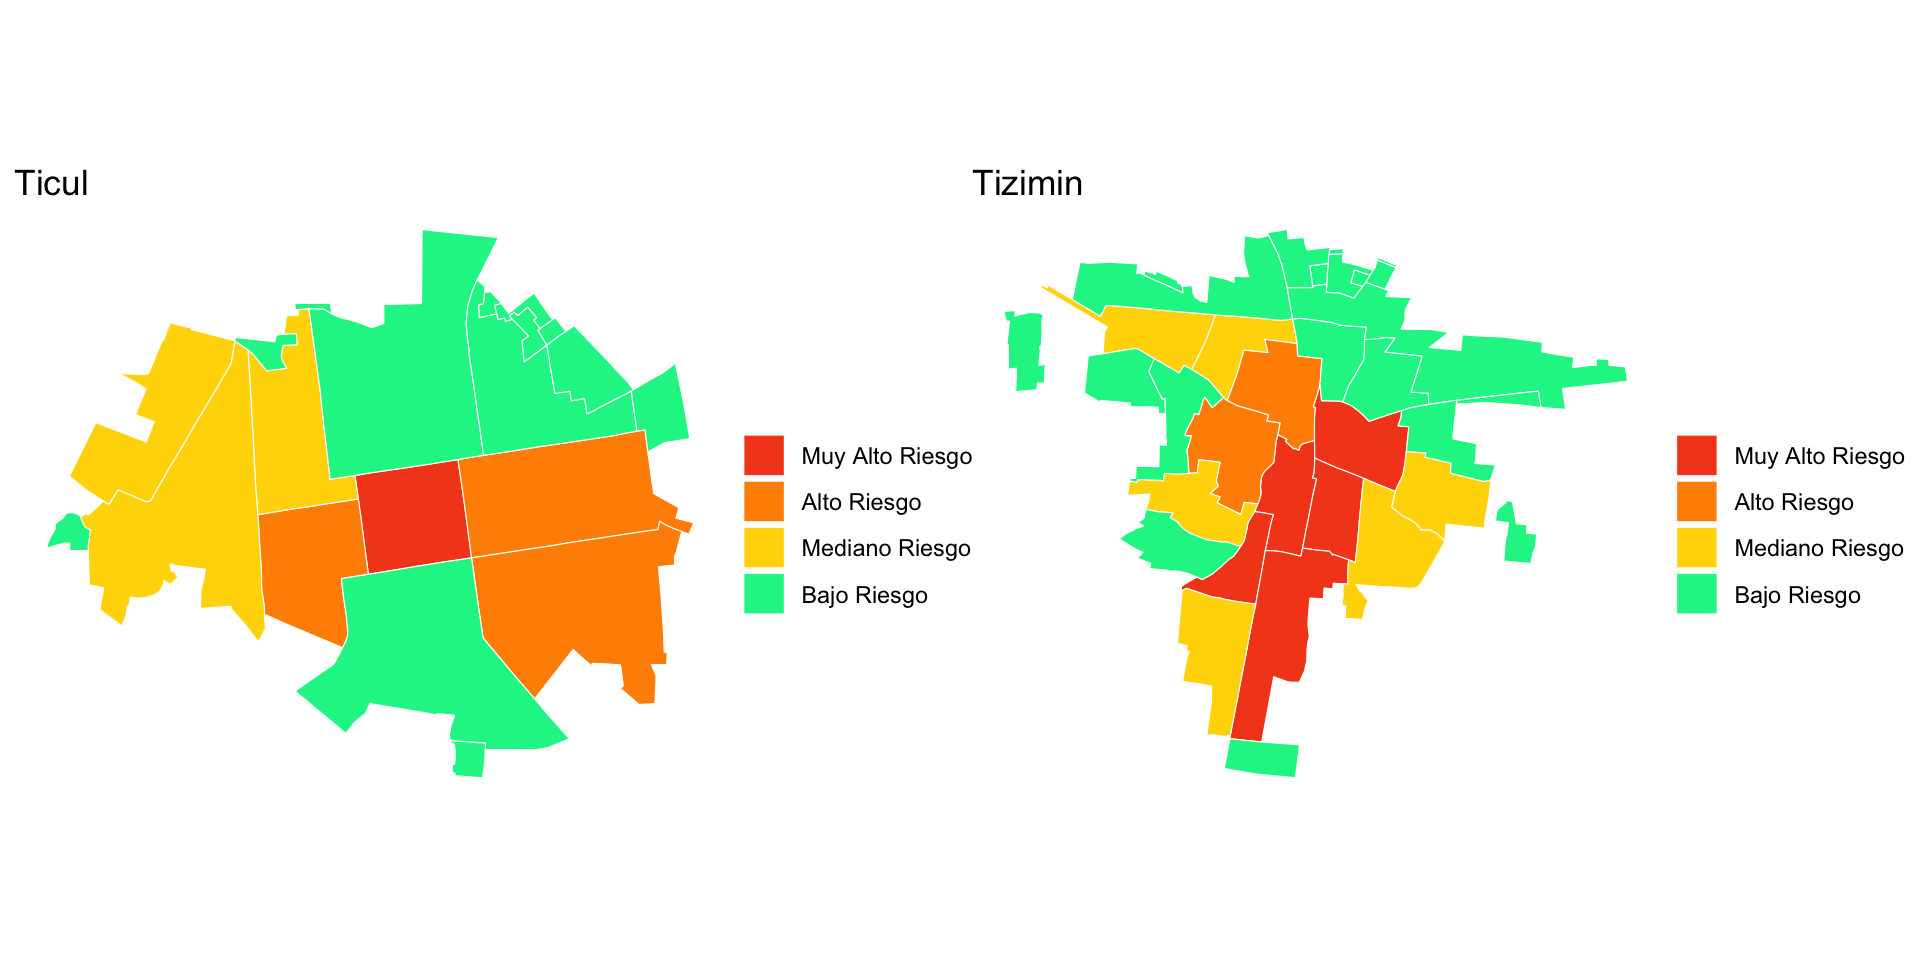
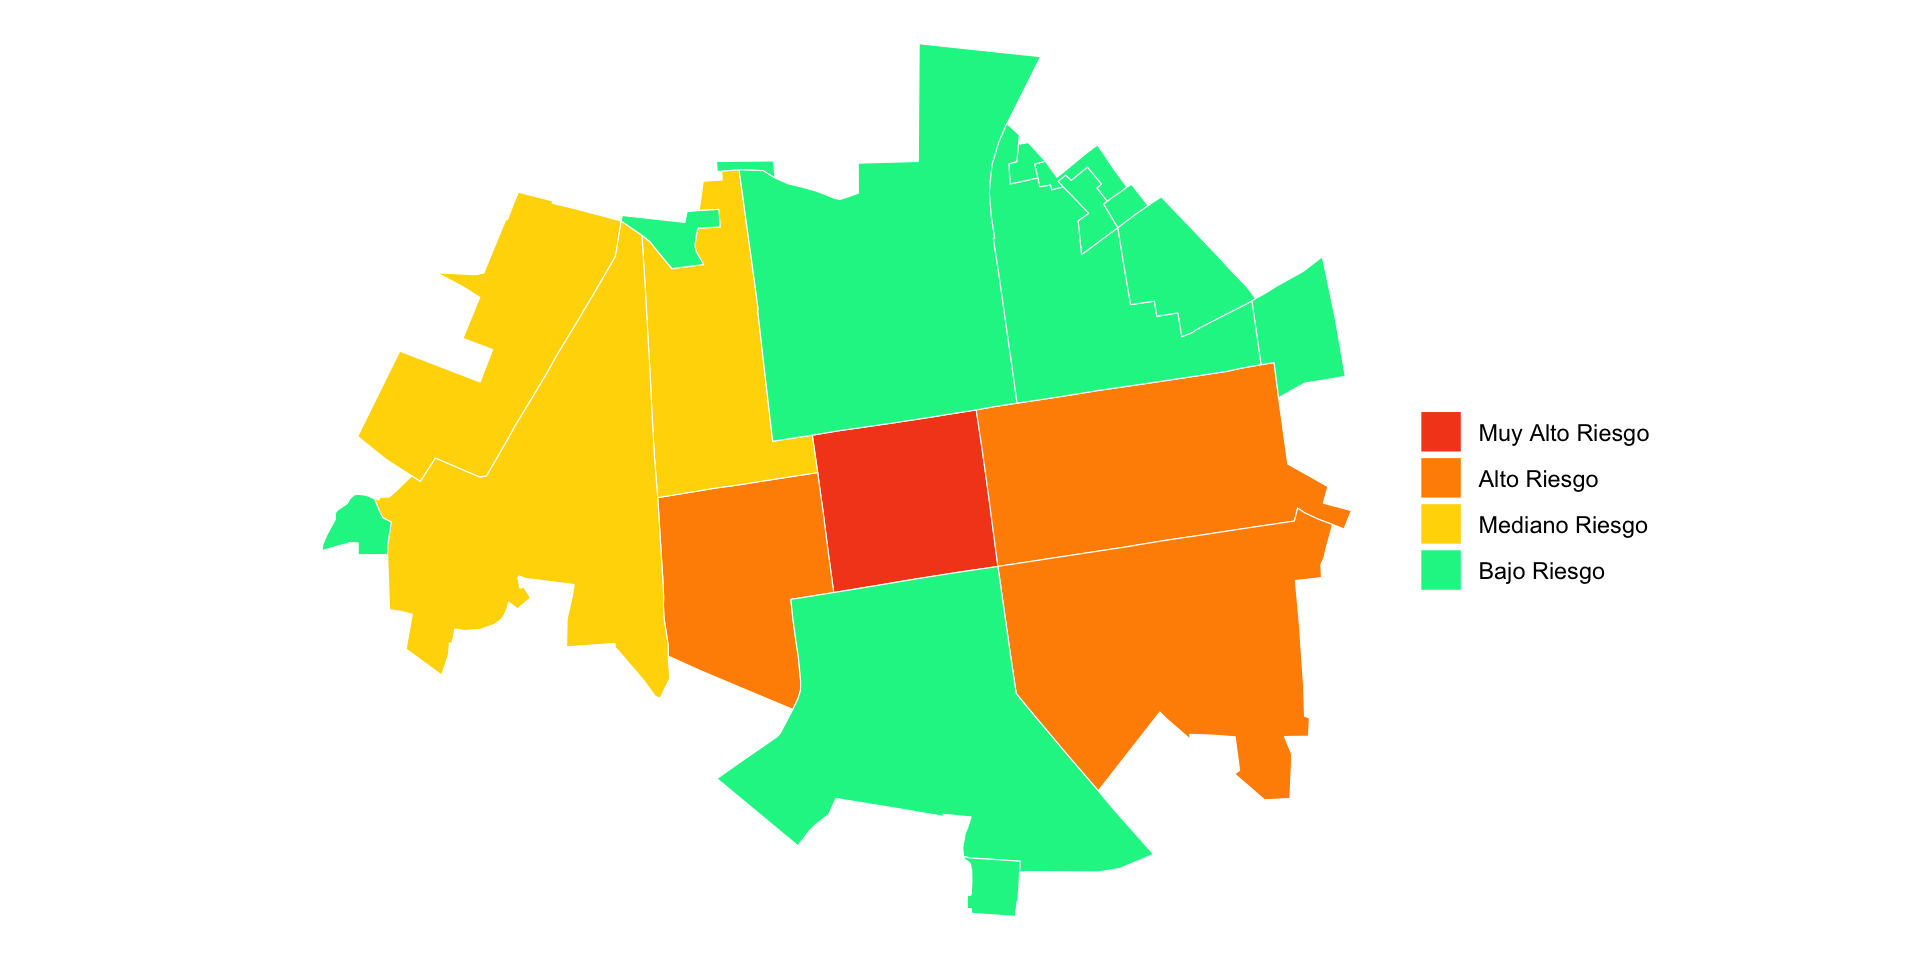
This commit update the talk

diff --git a/mia/31_yucatan/index.html b/mia/31_yucatan/index.html
@@ -465,6 +465,97 @@ Update: 2023-07-19
 
 
 </section>
+<section id="transmisión-persistente-hotspots-1" class="slide level2">
+<h2><span style="color:#003300">Transmisión Persistente (Hotspots)</span></h2>
+<hr style="height:2px;border-width:0;color:#330019;background-color:#330019">
+
+
+<style>
+.grid-container {
+  display: grid;
+  grid-template-columns: auto auto auto auto;
+  padding: 5px;
+}
+
+.grid-item {
+  background-color: rgba(255, 255, 255, 0.8);
+  border: 1px solid rgba(0, 0, 0, 0.8);
+  padding: 5px;
+  font-size: 30px;
+  text-align: center;
+}
+</style>
+
+
+<h1>
+</h1>
+<p>
+</p>
+<div class="grid-container">
+<div class="grid-item">
+<p>Localidad</p>
+</div>
+<div class="grid-item">
+<p>Transmisión</p>
+</div>
+<div class="grid-item">
+<p>Vector</p>
+</div>
+<div class="grid-item">
+<p>Escenarios</p>
+</div>
+<div class="grid-item">
+<p>Ticul</p>
+</div>
+<div class="grid-item">
+<div class="cell">
+<div class="cell-output-display">
+<p><img data-src="index_files/figure-revealjs/hotspots_cases_ticul-1.png" style="width:110.0%;height:110.0%"></p>
+</div>
+</div>
+</div>
+<div class="grid-item">
+<div class="cell">
+<div class="cell-output-display">
+<p><img data-src="index_files/figure-revealjs/hotspots_vector_ticul-1.png" style="width:110.0%;height:110.0%"></p>
+</div>
+</div>
+</div>
+<div class="grid-item">
+<div class="cell">
+<div class="cell-output-display">
+<p><img data-src="index_files/figure-revealjs/risk_ticul-1.png" style="width:110.0%;height:110.0%"></p>
+</div>
+</div>
+</div>
+<div class="grid-item">
+<p>Tizimin</p>
+</div>
+<div class="grid-item">
+<div class="cell">
+<div class="cell-output-display">
+<p><img data-src="index_files/figure-revealjs/hotspots_cases_tizimin-1.png" style="width:100.0%;height:110.0%"></p>
+</div>
+</div>
+</div>
+<div class="grid-item">
+<div class="cell">
+<div class="cell-output-display">
+<p><img data-src="index_files/figure-revealjs/hotspots_vector_tizimin-1.png" style="width:110.0%;height:110.0%"></p>
+</div>
+</div>
+</div>
+<div class="grid-item">
+<div class="cell">
+<div class="cell-output-display">
+<p><img data-src="index_files/figure-revealjs/risk_tizimin-1.png" style="width:110.0%;height:110.0%"></p>
+</div>
+</div>
+</div>
+</div>
+
+
+</section>
 <section id="escenarios-operativos" class="slide level2">
 <h2><span style="color:#003300">Escenarios Operativos</span></h2>
 <hr style="height:2px;border-width:0;color:#330019;background-color:#330019">
@@ -474,7 +565,7 @@ Update: 2023-07-19
 <h2><span style="color:#003300">Escenarios Operativos</span></h2>
 <hr style="height:2px;border-width:0;color:#330019;background-color:#330019">
 
-<img data-src="index_files/figure-revealjs/risk_ticul-1.png" width="960" class="r-stretch"></section>
+<img data-src="index_files/figure-revealjs/risk_ticul2-1.png" width="960" class="r-stretch"></section>
 <section id="transmisión-activa" class="slide level2">
 <h2><span style="color:#003300">Transmisión Activa</span></h2>
 <hr style="height:2px;border-width:0;color:#330019;background-color:#330019">
